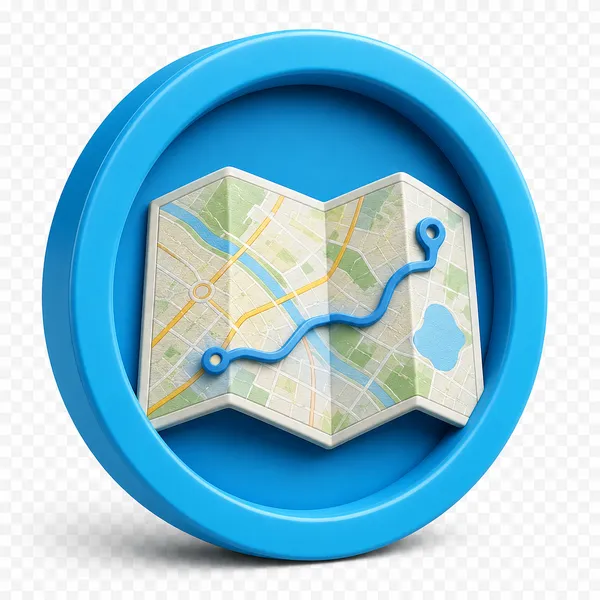
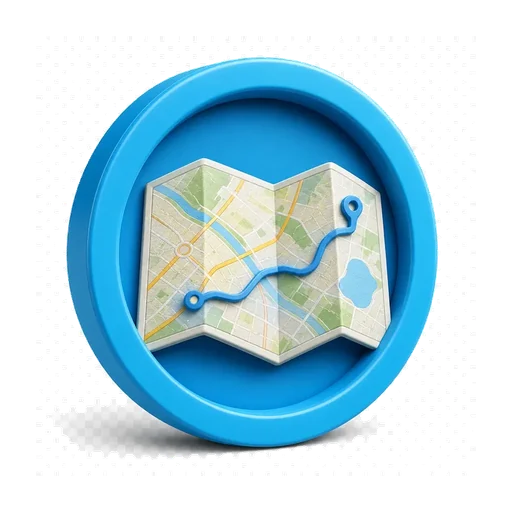
feat(trophees): plus de variété — 10 badges distincts au lieu de 7
Retour user : trop de doublons côté trophées élève. Récupère 3 médaillons
badge-3d supplémentaires de la même famille (05 carte/route, 07 tableau de
bord, 09 couronne ELITE) en retirant leur fond blanc (flood-fill depuis les
bords, blancs intérieurs préservés) + recentrage carré comme les autres.

Mapping : 10 visuels distincts sur 13 trophées (au lieu de 7). Plus aucun
doublon dans une même grille ; seuls 3 badges réapparaissent en cross-groupe
(Compétences <-> Quiz). 100% famille médaillons -> cohérence préservée.
- comp_25 Phares -> 07 tableau de bord, comp_28 Examen -> 05 carte/route,
  streak_60 Pilote -> 09 couronne ELITE.

diff --git a/permigo-game/src/data/achievements.js b/permigo-game/src/data/achievements.js
@@ -63,7 +63,7 @@ export const CATALOG = [
   {
     key: "comp_25",
     emoji: "💡",
-    image: "/skins/badge-3d-01.webp",
+    image: "/skins/badge-3d-07.webp",
     title: "Phares allumés",
     body: "Tu y es presque. Plus que 6 compétences !",
     rarity: "epique",
@@ -74,7 +74,7 @@ export const CATALOG = [
   {
     key: "comp_28",
     emoji: "🎓",
-    image: "/skins/badge-3d-06.webp",
+    image: "/skins/badge-3d-05.webp",
     title: "Prêt examen blanc",
     body: "28/31. La voiture est sur la route — lance l'examen blanc.",
     rarity: "legendaire",
@@ -119,7 +119,7 @@ export const CATALOG = [
   {
     key: "streak_60",
     emoji: "🏎",
-    image: "/skins/badge-3d-ultimate.webp",
+    image: "/skins/badge-3d-09.webp",
     title: "Pilote en série",
     body: "30 jours non-stop. Inarrêtable. Respect.",
     rarity: "legendaire",
